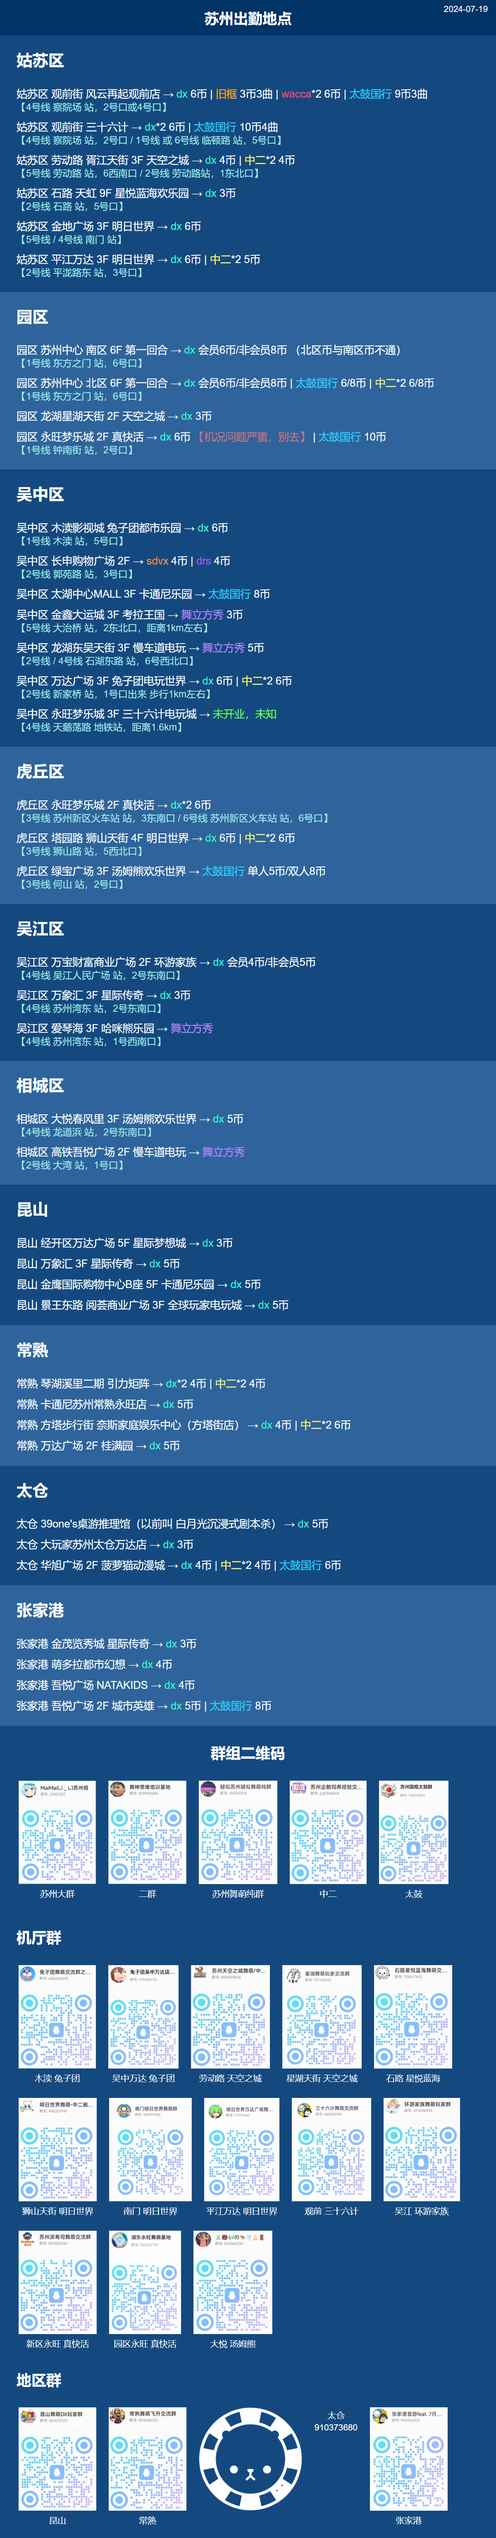
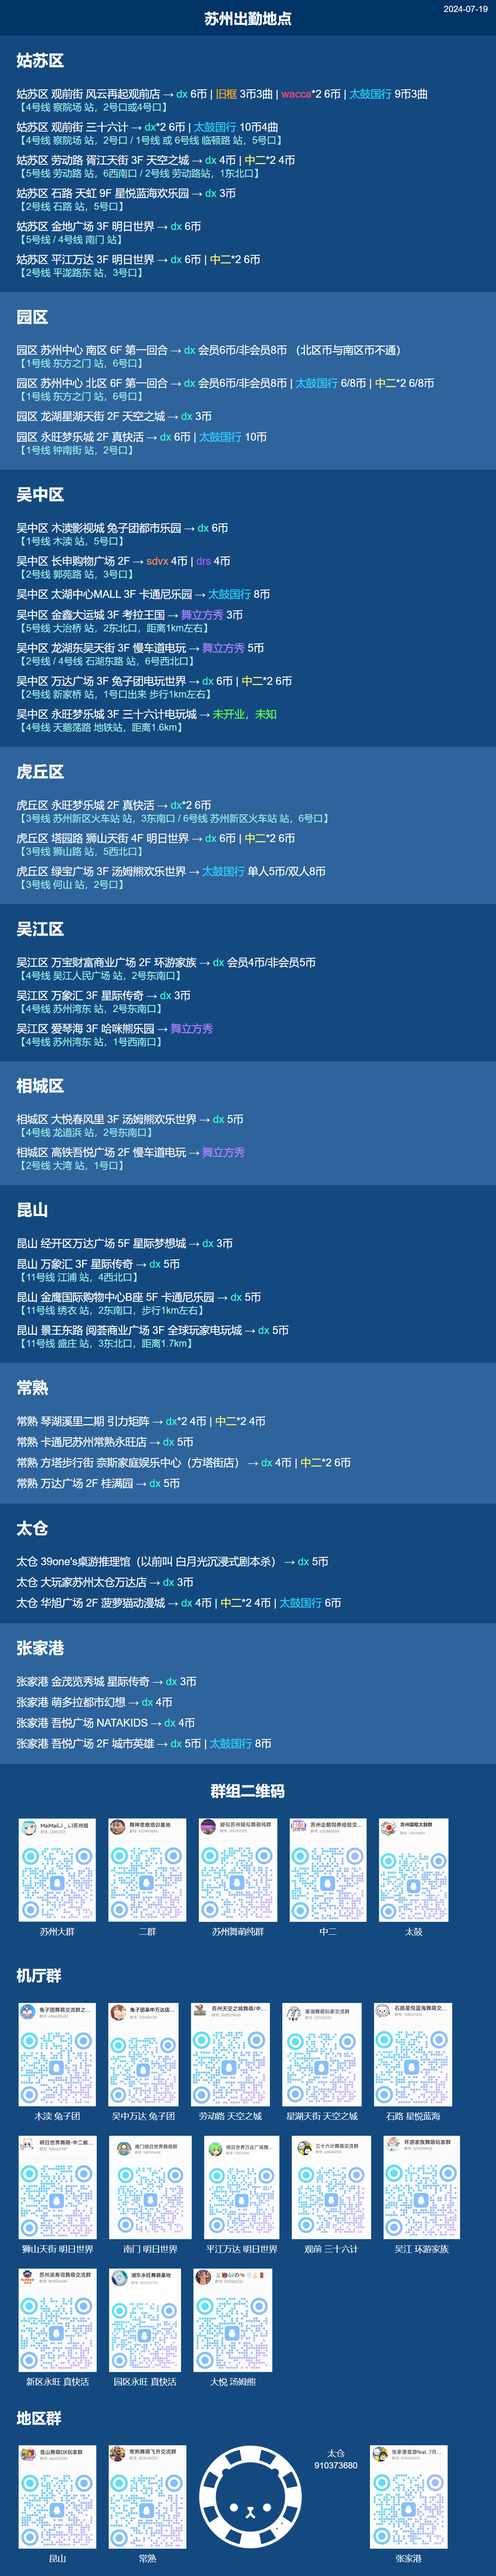
update

diff --git a/index.html b/index.html
@@ -170,7 +170,7 @@
   </div>
 	<br />
 	<div class="item">
-    姑苏区 平江万达 3F 明日世界 → <span class="dx">dx</span> 6币 | <span class="chunithm">中二</span>*2 5币 <br />
+    姑苏区 平江万达 3F 明日世界 → <span class="dx">dx</span> 6币 | <span class="chunithm">中二</span>*2 6币 <br />
     <span class="station">【2号线 平泷路东 站，3号口】</span>
   </div>	
   <!-- 更多内容... -->
@@ -193,7 +193,7 @@
   </div>
 	<br />
 	<div class="item">
-    园区 永旺梦乐城 2F 真快活 → <span class="dx">dx</span> 6币 <span class="note">【机况问题严重，别去】 </span> | <span class="taiko">太鼓国行</span> 10币 <br />
+    园区 永旺梦乐城 2F 真快活 → <span class="dx">dx</span> 6币 | <span class="taiko">太鼓国行</span> 10币 <br />
     <span class="station">【1号线 钟南街 站，2号口】</span>
   </div>
 </div>
@@ -290,13 +290,16 @@
 	<br />	
 	<div class="item">
     昆山 万象汇 3F 星际传奇 → <span class="dx">dx</span> 5币<br />		
-  </div>
+  <span class="station">【11号线 江浦 站，4西北口】</span>		
+  </div>	
 	<br />	
 	<div class="item">
-    昆山 金鹰国际购物中心B座 5F 卡通尼乐园 → <span class="dx">dx</span> 5币<br />		
+    昆山 金鹰国际购物中心B座 5F 卡通尼乐园 → <span class="dx">dx</span> 5币<br />	
+  <span class="station">【11号线 绣衣 站，2东南口，步行1km左右】</span>				
   </div>
 	<div class="item">
     昆山 景王东路 阅荟商业广场 3F 全球玩家电玩城 → <span class="dx">dx</span> 5币 <br />		
+  <span class="station">【11号线 盛庄 站，3东北口，距离1.7km】</span>		
   </div>
 </div>
 <!-- 常熟 -->
